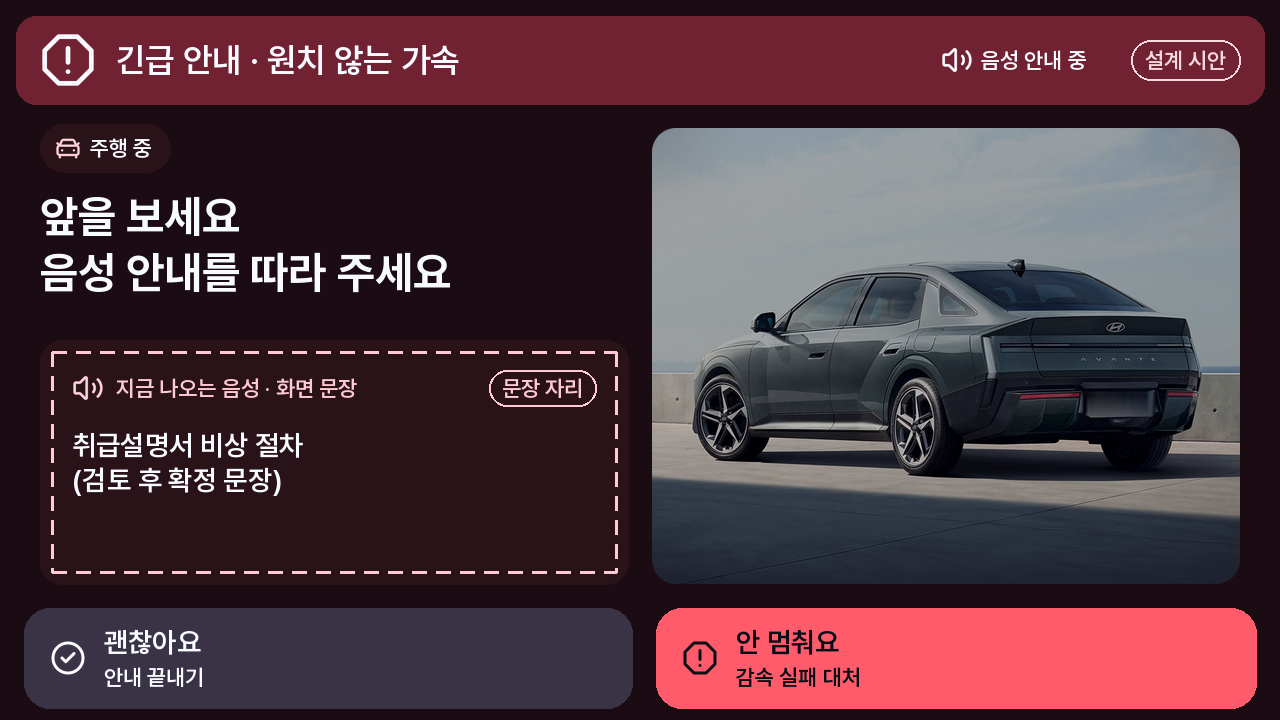
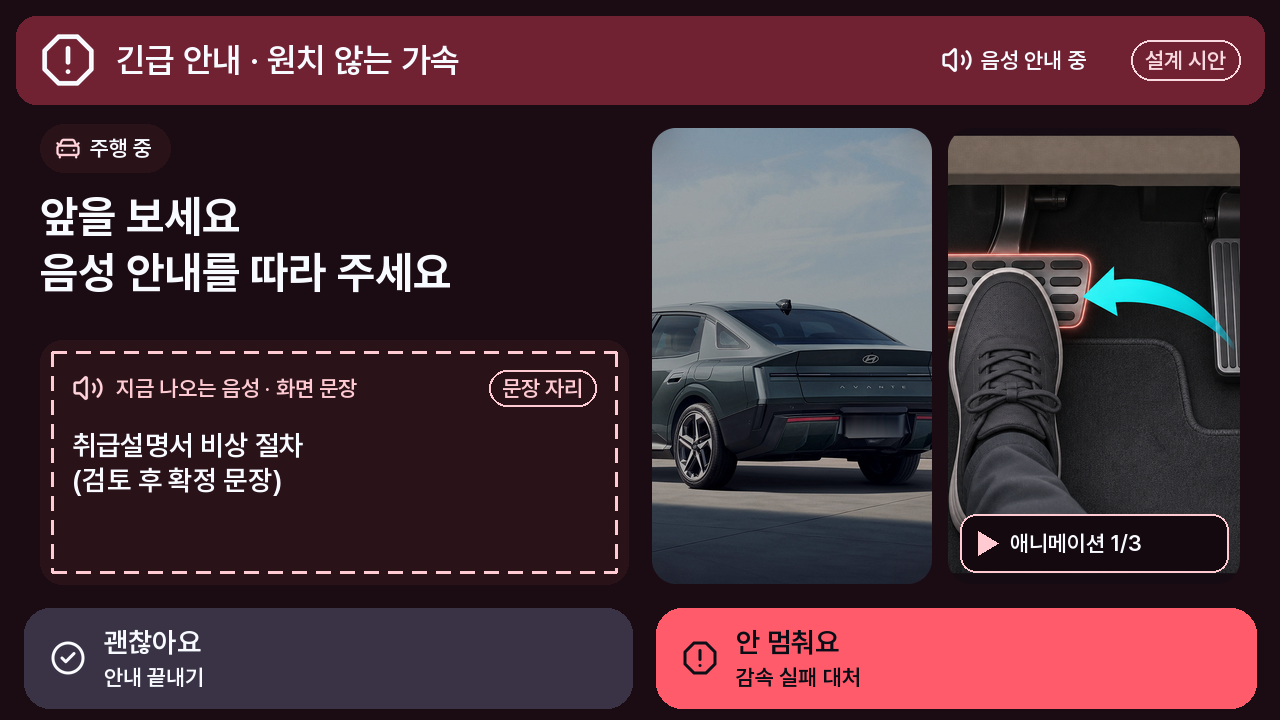
2026-11-13 사용자 결정 반영(1): 확인 질문 음성 답, 주행 중 긴급 화면 페달 그림·애니메이션
- 공식 양식 2·3·4·5번 해당 문단 교체(각 3,000자 유지)
- 긴급 화면 4장: 아반떼 실사 뒷모습 + 페달 그림·설명 애니메이션 칸
- 확인 질문 화면 2장: 버튼 없이 말로 답하기 안내
- 긴급 안내 상태도 라벨, 그림 4 캡션, HANDOFF·AGENTS 기준 갱신

Claude-Session: https://claude.ai/code/session_01Dyt4TM2r9Xf3eEYkWnsWkp

Changed region(s): [[0.5, 0.1528, 0.9688, 0.825]]

diff --git a/hyundai_app_market/output/submission/build_ui_v4.py b/hyundai_app_market/output/submission/build_ui_v4.py
@@ -663,14 +663,44 @@ def road_scene(w, h, hazard=False):
     if _rear is None:
         _rear = Image.open(A / 'avante-rear.jpg').convert('RGB')
     src = _rear; cx, cy = 1107, 690                      # 원본 1920×1080에서 차 중심
-    cw = 1150 if w / h > 1.5 else 1050; ch = cw * h / w
-    x0 = cx - cw / 2; y0 = max(0, min(src.height - ch, cy - ch / 2))
+    if w / h >= 1:
+        cw = 1150 if w / h > 1.5 else 1050; ch = cw * h / w
+    else:                                                # 세로로 긴 칸: 차 뒷부분 중심으로 자름
+        ch = 930; cw = ch * w / h; cx = 1250
+    x0 = max(0, min(src.width - cw, cx - cw / 2)); y0 = max(0, min(src.height - ch, cy - ch / 2))
     im = src.crop((int(x0), int(y0), int(x0 + cw), int(y0 + ch))).resize((w * 2, h * 2), LZ)
     im = ImageEnhance.Brightness(im).enhance(0.74)       # 어두운 긴급 화면에서 눈부시지 않게
     W, H = im.size; m = Image.new('L', im.size, 0)
     ImageDraw.Draw(m).ellipse((-W * .15, -H * .25, W * 1.15, H * 1.25), fill=255)
     im = Image.composite(im, Image.new('RGB', im.size, '#1A0F15'), m.filter(ImageFilter.GaussianBlur(W * .08)))
     return im.resize((w, h), LZ)
+
+
+_pedal_img = None
+
+
+def pedal_panel(s, rect, step='1/3', short=False):
+    """주행 중 긴급 안내의 페달 그림·설명 애니메이션 칸(2026-11-13 사용자 결정, 긴급 안전 예외).
+
+    시안에는 애니메이션의 한 장면을 그립니다. 그림은 AI 설명 그림이며 동작 내용은 검토된 취급설명서 문장을 따릅니다.
+    """
+    global _pedal_img
+    if _pedal_img is None:
+        _pedal_img = Image.open(A / 'pedal-detail.png').convert('RGBA')
+    x0, y0, x1, y1 = [int(v) for v in rect]; w, h = x1 - x0, y1 - y0
+    src = _pedal_img; ch = src.height; cw = min(src.width, ch * w / h); cx = 965
+    l = max(0, min(src.width - cw, cx - cw / 2))
+    crop = src.crop((int(l), 0, int(l + cw), ch))
+    bg = Image.new('RGBA', crop.size, (20, 12, 18, 255)); bg.alpha_composite(crop)
+    s.paste_round(bg.convert('RGB'), rect, 24)
+    by0 = y1 - 70; s.box((x0 + 12, by0, x1 - 12, y1 - 12), '#14090E', 16, EPINK, 2)
+    tri = [(x0 + 30, by0 + 17), (x0 + 30, by0 + 41), (x0 + 50, by0 + 29)]
+    s.d.polygon(tri, fill=EPINK)
+    s.txt_vc(x0 + 62, by0 + 29, ('애니메이션 ' if short else '설명 애니메이션 ') + step, 22, FG, True, maxw=w - 90)
+    if not short:
+        for j in range(3):
+            cxd = x1 - 86 + j * 22
+            s.d.ellipse((cxd - 6, by0 + 23, cxd + 6, by0 + 35), fill=EPINK if j == 0 else '#5A3A44')
 
 
 def seat_diagram(s, rect):
@@ -920,7 +950,7 @@ def slot_card(s, rect, slot, n=30):
 
 
 def emergency_portrait(name, line2, slot, left, right, hazard=False):
-    """주행 중 긴급 화면: 띠 · 행동 한 문장 · 안내 문장 자리 · 정지 그림 최대 1장 · 버튼 2개. 출처 줄은 숨김(F5)."""
+    """주행 중 긴급 화면: 띠 · 행동 한 문장 · 안내 문장 자리 · 아반떼 실사 뒷모습 + 페달 그림·설명 애니메이션(2026-11-13 사용자 결정) · 버튼 2개. 출처 줄은 숨김(F5)."""
     s = Scr(name, (PW, PH), EBG)
     s.box((16, 16, 824, 128), EBAND, 22); s.icon('octagon-alert', 40, 44, 56, FG)
     s.txt(116, 30, '긴급 안내', 34, FG, True); s.txt(116, 80, line2, 26, FG, True); s.draft(800, 52, EDRAFT, EDRAFT)
@@ -929,14 +959,15 @@ def emergency_portrait(name, line2, slot, left, right, hazard=False):
         x += s.chip(x, 148, t, ic, EPINK, FG, ECARD, None) + 12
     s.txt(24, 222, '앞을 보세요\n음성 안내를 따라 주세요', 46, FG, True, maxw=792)
     slot_card(s, (24, 362, 816, 552), slot)
-    s.paste_round(road_scene(792, 456, hazard), (24, 568, 816, 1024), 24)
+    s.paste_round(road_scene(372, 456), (24, 568, 396, 1024), 24)
+    pedal_panel(s, (412, 568, 816, 1024))
     nbtn(s, PE_L, left[0], left[1], left[2], n=30, emergency=True)
     rbtn(s, PE_R, right[0], right[1], right[2], n=30, kind='alert')
     s.save(PO)
 
 
 def p_confirm():
-    """확인 질문(F2·D8): 센서 조합은 이 질문만 띄웁니다. 답을 들은 뒤에만 안내를 시작합니다."""
+    """확인 질문(F2·D8): 센서 조합은 이 질문을 화면과 음성으로 띄우고, 운전자는 화면을 누르거나 버튼 없이 말로 답합니다(질문 직후 8초 듣기)."""
     s = p_drive_head('p-confirm')
     x = 24
     for ic, t, col in (('car-front', '주행 중', MINT), ('volume-2', '음성으로도 묻습니다', FG)):
@@ -948,8 +979,8 @@ def p_confirm():
     s.icon('pedal', 56, 590, 40, AMBER)
     bb = s.txt(112, 584, '브레이크를 밟은 1초 동안\n속도가 줄지 않았습니다', 28, FG, True)
     s.badge(112, bb[3] + 14, '차속 · 시험 입력')
-    s.icon('mic', 56, 772, 40, EPINK); s.txt_vc(112, 792, '8초 동안 말로 하는 답도 듣습니다', 26, FG)
-    s.txt(24, 904, '앱은 운전자의 답을 들은 뒤에만 긴급 안내를 시작합니다', 22, MUT, maxw=792)
+    s.icon('mic', 56, 748, 40, EPINK); s.txt(112, 740, '버튼 없이 말로 답해도 됩니다\n"안 멈춰요" · "괜찮아요" (8초 듣기)', 26, FG, True, maxw=680)
+    s.txt(24, 904, '"안 멈춰요"라고 답하면 감속 실패 대처를 바로 시작합니다.\n답이 없으면 8초 뒤 질문을 닫고 기록만 남깁니다', 22, MUT, maxw=792)
     nbtn(s, PE_L, '괜찮아요', 'circle-check', '질문 닫기', n=30)
     rbtn(s, PE_R, '안 멈춰요', 'octagon-alert', '감속 실패 대처', n=30, kind='alert')
     s.save(PO)
@@ -1228,7 +1259,8 @@ def emergency_landscape(name, title, slot, left, right, hazard=False):
     s.chip(40, 124, '주행 중', 'car-front', EPINK, FG, ECARD, None, h=48)
     s.txt(40, 190, '앞을 보세요\n음성 안내를 따라 주세요', 44, FG, True, maxw=600)
     slot_card(s, (40, 340, 628, 584), slot, n=28)
-    s.paste_round(road_scene(588, 456, hazard), (652, 128, 1240, 584), 24)
+    s.paste_round(road_scene(280, 456), (652, 128, 932, 584), 24)
+    pedal_panel(s, (948, 128, 1240, 584), short=True)
     nbtn(s, LE_L, left[0], left[1], left[2], emergency=True)
     rbtn(s, LE_R, right[0], right[1], right[2], kind='alert')
     s.save(LA)
@@ -1244,8 +1276,9 @@ def l_confirm():
     bb = s.txt(104, 364, '브레이크를 밟은 1초 동안\n속도가 줄지 않았습니다', 26, FG, True)
     s.badge(104, bb[3] + 14, '차속 · 시험 입력')
     s.box((844, 120, 1256, 584), SURF, 26)
-    s.icon('mic', 868, 148, 36, EPINK); s.txt(916, 144, '말로 하는 답도\n8초 동안 듣습니다', 24, FG, True)
-    s.txt(868, 270, '앱은 운전자의 답을\n들은 뒤에만 긴급 안내를\n시작합니다', 22, MUT, maxw=364)
+    s.icon('mic', 868, 148, 36, EPINK); s.txt(916, 144, '버튼 없이\n말로 답해도 됩니다', 24, FG, True)
+    s.txt(868, 244, '"안 멈춰요" · "괜찮아요"\n8초 동안 듣습니다', 24, FG, True, maxw=364)
+    s.txt(868, 352, '"안 멈춰요"면 감속 실패\n대처를 바로 시작합니다.\n답이 없으면 기록만 남깁니다', 22, MUT, maxw=364)
     nbtn(s, LD_L, '괜찮아요', 'circle-check', '질문 닫기')
     rbtn(s, LD_R, '안 멈춰요', 'octagon-alert', '감속 실패 대처', kind='alert')
     s.save(LA)

diff --git a/hyundai_app_market/output/submission/build_diagrams_v4.py b/hyundai_app_market/output/submission/build_diagrams_v4.py
@@ -79,12 +79,12 @@ def main():
         ('받는 사람', '보호자 알림 화면\n정비사 요약 · 휴대폰 앱'),
     ])
     states('guidance-state-v4.png', {
-        'O': (0, 0, '상태 관찰'), 'Q': (1, 0, '확인 질문'), 'X': (2, 0, '안내 끝내기'),
+        'O': (0, 0, '상태 관찰'), 'Q': (1, 0, '확인 질문(화면·말)'), 'X': (2, 0, '안내 끝내기'),
         'R': (0, 1, '운전자 직접 알림'), 'A': (1, 1, '원치 않는 가속 안내'), 'S': (2, 1, '감속 실패 대처'),
         'E': (3, 1, '정차 후 확인'), 'Y': (1, 2, '안내 끝내기'),
         'M': (0, 3, '상황 직접 선택'), 'H': (2, 3, '보호자 발송 확인'),
     }, [
-        ('O', 'Q', '이상한 조합'), ('Q', 'X', '괜찮아요'), ('Q', 'S', '안 멈춰요'), ('R', 'A', '저절로 빨라져요'),
+        ('O', 'Q', '센서 감지'), ('Q', 'X', '괜찮아요'), ('Q', 'S', '안 멈춰요'), ('R', 'A', '저절로 빨라져요'),
         ('A', 'S', '안 멈춰요'), ('S', 'E', '차가 멈췄어요'), ('A', 'Y', '괜찮아요'), ('M', 'H', '사고가 났어요 · 지금 도움 요청'),
         ('H', 'E', ''),
     ], size=(1640, 1200), danger=('A', 'S'))

diff --git a/hyundai_app_market/docs/HANDOFF.md b/hyundai_app_market/docs/HANDOFF.md
@@ -57,7 +57,7 @@
 ### 2026-11-12 비판 라운드에서 정한 v4 기준 (근거는 PRD v4와 각 문서)
 - **공모전 공지 8 분리**: 기능을 [시연](공개 SDK로 지금 만들고 에뮬레이터에서 보여 줌), [설계](공개 SDK로 가능하나 서버·휴대폰 앱 구현 필요), [향후](공개 문서에 없는 API·권한 필요)로 나눕니다. 경고등 상태 읽기, 원본 녹음·영상, 블랙박스, 진동 분석(가속도·자이로), 충격 센서, 가속 페달 값, 기어는 [향후]입니다.
 - **경고등 API**: `getTelltalesInfo` 등 4개는 구현에서 `PRIVATE_CAR_SAFETY`(signature|privileged)를 요구합니다. 일반 앱은 경고등 상태를 읽을 수 없습니다. 도감은 운전자가 색 → 모양 → 켜짐·깜박임으로 고르는 방식입니다.
-- **주행 중 화면**: Pleos 디자인 원칙("운전 중 애니메이션 이미지로 시선을 유도하면 안 됩니다", "운전자의 손이나 발을 움직이는 동작을 유도해서는 안 됩니다")에 따라, 주행 중 긴급 안내는 정지 그림 1장과 취급설명서 비상 절차의 짧은 음성만 씁니다. 페달 그림·애니메이션은 정차 중 "비상 절차 미리 익히기"로 옮겼습니다.
+- **주행 중 화면**: Pleos 디자인 원칙("운전 중 애니메이션 이미지로 시선을 유도하면 안 됩니다", "운전자의 손이나 발을 움직이는 동작을 유도해서는 안 됩니다")에 따라, 주행 중 긴급 안내는 정지 그림 1장과 취급설명서 비상 절차의 짧은 음성만 씁니다. 페달 그림·애니메이션은 정차 중 "비상 절차 미리 익히기"로 옮겼습니다. (2026-11-13 사용자 결정으로 긴급 안내 두 화면은 페달 그림·애니메이션을 다시 씁니다. 위 v4.2 결정 참고)
 - **긴급 안내 시작**: 운전자가 직접 알릴 때(버튼·음성)만 시작합니다. 센서 조합은 "차가 멈추지 않나요?" 확인 질문만 띄웁니다. 앱은 차를 제어하지 않습니다.
 - **주행 상태를 알 수 없으면 주행 중으로 봅니다**(v3의 "정차 중으로 간주"는 오류였음).
 - **보호자 알림 범위**: 에어백 전개 신호와 "사고" 선택은 10초 확인 뒤 자동 발송합니다. "지금 도움 요청"은 받는 사람 확인 뒤 즉시 발송합니다. 떨림·소음 같은 증상 선택은 자동 발송하지 않습니다.
@@ -65,6 +65,11 @@
 - **위치**: FusedLocation에는 미터 단위 정확도가 없습니다. 오차 반경은 표시하지 않고 측정 시각과 `confidence` 원값을 씁니다.
 - **휴대폰 보조 앱**: FusedLocation이 차량용 기기만 설치하도록 선언해 같은 APK를 휴대폰에 쓸 수 없습니다. 별도 APK, 정차 중 QR 연결, 서버 중계로 설계합니다.
 - **새 기능**: 차가 알려 준 점검 항목, 출발 전 점검 카드, 재현 조건 카드, 정비 노트·재발 확인, 가는 길에 정비소 들르기, 사고 순간 차량 스냅샷, 보호자 연습 알림과 빠른 답, 위치 제공 알림·공유 중지, 경고등 익히기 카드, 비상 절차 미리 익히기, 시연 모드.
+
+### 2026-11-13 사용자 결정 (v4.2, v4.1 기준보다 우선)
+- **확인 질문은 화면이나 말로 답합니다.** 센서 조합(브레이크 밟음 + 1,000ms 감속 미관측 등)이 감지되면 "차가 멈추지 않나요?"를 화면과 음성으로 묻고, 운전자는 화면을 누르거나 버튼 없이 바로 말로 답합니다. 마이크는 "말로 하기"를 누른 뒤나 확인 질문 직후에만 최대 8초 열립니다(상시 듣기 없음).
+- **주행 중 긴급 안내 화면에 페달 그림과 설명 애니메이션을 씁니다.** 원치 않는 가속 안내와 감속 실패 대처 화면은 아반떼 실사 뒷모습 사진(왼쪽)과 페달 그림·설명 애니메이션(오른쪽)을 음성과 같은 단계로 보여 줍니다. Pleos 디자인 가이드의 운전 중 애니메이션·손발 동작 유도 금지와 다른 "긴급 안전 예외"입니다. 앱마켓 심사와 2차 PT에서 지적받을 수 있어 Pleos에 미리 확인하고, 허용되지 않거나 주행 제한이 걸리면 정지 페달 그림으로 바꿉니다. 그 밖의 주행 중 화면은 기존 규칙(애니메이션 없음)을 지킵니다.
+- 사업성 가정 값(MAU 약 3,000명)과 보호자 최대 3명 무료, 도착 알림(H7) 포함을 승인했습니다(9장).
 
 ### 2026-11-12 2차 비판 라운드에서 정한 v4.1 기준 (v4 기준보다 우선)
 - **대표 사례 한 벌**: 그림·양식·별첨·PRD·시연 각본이 같은 값을 씁니다. 사고 장면은 밤 9시 00분 03초 에어백 전개 신호(운전석), 탑승 1명, 안전벨트 착용, 위치 측정 21:00:01, 10초 확인에 응답 없음 → 21:00:13 발송 시작, 보호자 1은 21:01 열람·"전화할게요", 보호자 2는 알림톡 전달 확인 기한 10초 뒤 21:00:23 문자 재발송입니다. 경고등 장면은 주황색 타이어 공기압 경고, 소리 장면은 앞 타이어 끼익 소리 일주일 3회(시속 20km 아래 브레이크), 점검 장면은 워셔액 부족(시험 입력)과 정기 점검까지 2,860km입니다.

diff --git a/hyundai_app_market/AGENTS.md b/hyundai_app_market/AGENTS.md
@@ -4,6 +4,7 @@
 
 - Start cross-session handoff with `docs/HANDOFF.md`. Read it together with this file and the linked current source reports before continuation; after substantive changes, refresh its artifact identities, verification limits and remaining work. Keep it as the single handoff entry rather than creating competing copies. It records the latest 14-page official form, 43-page appendix (v4.1), per-field counts and the generator hazards.
 
+- **2026-11-13 user decisions (v4.2; override the v4.1/v4 bullets below where they differ).** (1) The "차가 멈추지 않나요?" confirmation raised by sensor combinations is answered by tapping the screen or by speaking without pressing any button: the mic opens for up to 8 s right after the question (and otherwise only after "말로 하기"; no always-on listening). (2) While driving, the two emergency guidance screens (unwanted-acceleration guide, deceleration-failure guide) show the Avante rear photo plus pedal graphics and explanatory animation synchronized with the voice step. This intentionally departs from the Pleos design guide quotes (no animation, no hand/foot movement inducement while driving): label it "긴급 안전 예외 (사용자 결정 2026-11-13)", keep the original quotes, record the review risk, ask Pleos in advance, and fall back to a static pedal image if disallowed or restricted. All other driving screens keep the no-animation rule. MAU assumptions, guardians max 3 free, and the arrival alert (H7) were approved by the user.
 - **2026-11-12 v4.1 baseline (critique round 2; overrides the v4 bullets and older bullets below).** Official form v4.1 is 14 pages and appendix v4.1 is 43 pages, still built only with `output/submission/build_v4.py`; v4.0 deliverables are preserved in `output/submission/qa/history/2026-11-12-v4.0/`. Canonical PRD is v4.1 (v4.0 kept as `-prd-v4.0.md`); contracts are OpenAPI 3.1.0 (59 operations), DB v3.1 (36 tables), rules-lab 2.1.0, ui-tokens 5.1.0, acceptance 3.1.0 (133 cases). UI is 17 portrait + 16 landscape screens. Critique decisions are in `docs/analysis/critique-2026-11-12/` (round 2 wins over round 1). Key v4.1 rules: one canonical example set (21:00:03 airbag, 21:00:13 send, guardian 2 SMS at 21:00:23); button rule left = end/cancel/record (neutral), right = help/send/deceleration failure (red); "저절로 빨라져요" = unwanted-acceleration guide, "안 멈춰요" = deceleration-failure guide; sensor combinations only show the "차가 멈추지 않나요?" question, at most once per 5 minutes; driving home has 3 buttons (지금 기록, 말로 하기, 도움이 필요해요) and voice listens up to 8 seconds after one tap; no in-app map (use `requestNavigationScreen`/`addWaypoint` with `NAVI_ROUTE_SEARCH`); any test-input signal forces mock sending; guardians max 3, free; MAU = 150k × 10% × 20% ≈ 3,000 (assumption).
 - **2026-11-12 v4 baseline (critique round 1; superseded where the v4.1 bullet differs).** Current deliverables are built only with `output/submission/build_v4.py` (Linux, LibreOffice; never run the older builders). Official form v4 is 14 pages, appendix v4 is 37 pages and comes from `docs/submission/annex-v4/annex.md`; form items 1/7/8 and figures come from `docs/submission/official-form-v4.json`. Canonical PRD is v4.0; contracts are OpenAPI 3.0.0, DB v3, rules-lab 2.0.0, ui-tokens 5.0.0, acceptance 3.0.0. UI screens are `output/submission/assets/v4/` (portrait single window is the default layout, landscape is the extension).
 - v4 product rules confirmed by main-session verification: classify every feature as [시연]/[설계]/[향후] per contest notice 8; telltale state APIs require `PRIVATE_CAR_SAFETY` (signature|privileged) so the warning-light guide is user-selected (color → shape → steady/blinking); raw audio/video, blackbox, IMU vibration, impact sensor, accelerator pedal and gear are [향후]. While driving, emergency guidance uses one static image plus a short voice line quoting the target vehicle manual; no animation and no hand/foot movement graphics (Pleos design guide). Pedal graphics/animation live only in the parked "비상 절차 미리 익히기" screen. Guidance starts only from the driver's own report; sensor combinations only raise a confirmation question. Unknown driving state is treated as driving. Manual symptom selections are never auto-sent to guardians; airbag deployment and "사고" use the 10-second confirmation; "지금 도움 요청" sends after showing recipients. No location accuracy radius (FusedLocation gives only `confidence`). The phone helper is a separate APK.

diff --git a/hyundai_app_market/docs/submission/official-content-3000/README.md b/hyundai_app_market/docs/submission/official-content-3000/README.md
@@ -42,3 +42,9 @@
 - 출처를 강화했습니다: 디 올 뉴 아반떼 전 트림 Pleos Connect·App Market 기본 적용은 현대자동차 보도자료(2026.8.5), 블루링크 차량 진단은 공식 취급설명서로 확인했습니다.
 - 5번의 SDK 사실 오류를 고쳤습니다: 경유지는 NaviHelper `addWaypoint`(`NAVI_ROUTE_SEARCH`), 권한 부족과 기능 미지원 구분, CAR_SPEED 실행 중 허락, 음성 듣기는 버튼을 누르면 최대 8초, 오디오 포커스는 앱이 직접 관리, 시험 입력이 섞인 기록은 모의 발송만.
 - 출발 전 점검 카드에서 시스템 출발 전 안내와 겹치는 문·안전벨트를 뺐고, 재현 조건은 평소 주행보다 자주 겹친 조건만 보이며 공조·창문 상태도 남깁니다. 앱 안 지도는 그리지 않고 옆 창의 내비게이션에 맡깁니다.
+
+## v4.2에서 바뀐 점 (2026-11-13 사용자 결정)
+
+- 확인 질문: 센서가 "브레이크를 밟아도 속도가 줄지 않는" 조합을 감지하면 "차가 멈추지 않나요?"를 화면과 음성으로 묻고, 운전자는 화면을 누르거나 버튼 없이 바로 말로 답합니다(질문 직후 최대 8초 듣기). 3번 6문단과 5번 6문단에 이 동작을 적었습니다.
+- 주행 중 긴급 안내 화면에 페달 그림과 설명 애니메이션을 음성과 함께 씁니다. Pleos 디자인 원칙과 다른 "긴급 안전 예외"이므로 Pleos에 미리 확인하고, 허용되지 않으면 정지 그림으로 바꾼다고 2번 10문단과 5번 5문단에 적었습니다. 3번 8문단(미리 익히기)과 4번 10문단(아버지 장면)도 같은 그림을 쓰도록 고쳤습니다.
+- 바꾼 문단은 원래 문단과 글자 수가 같아 각 항목은 그대로 3,000자, 12문단입니다. v4.1 원고는 Git 이력에 있습니다.
